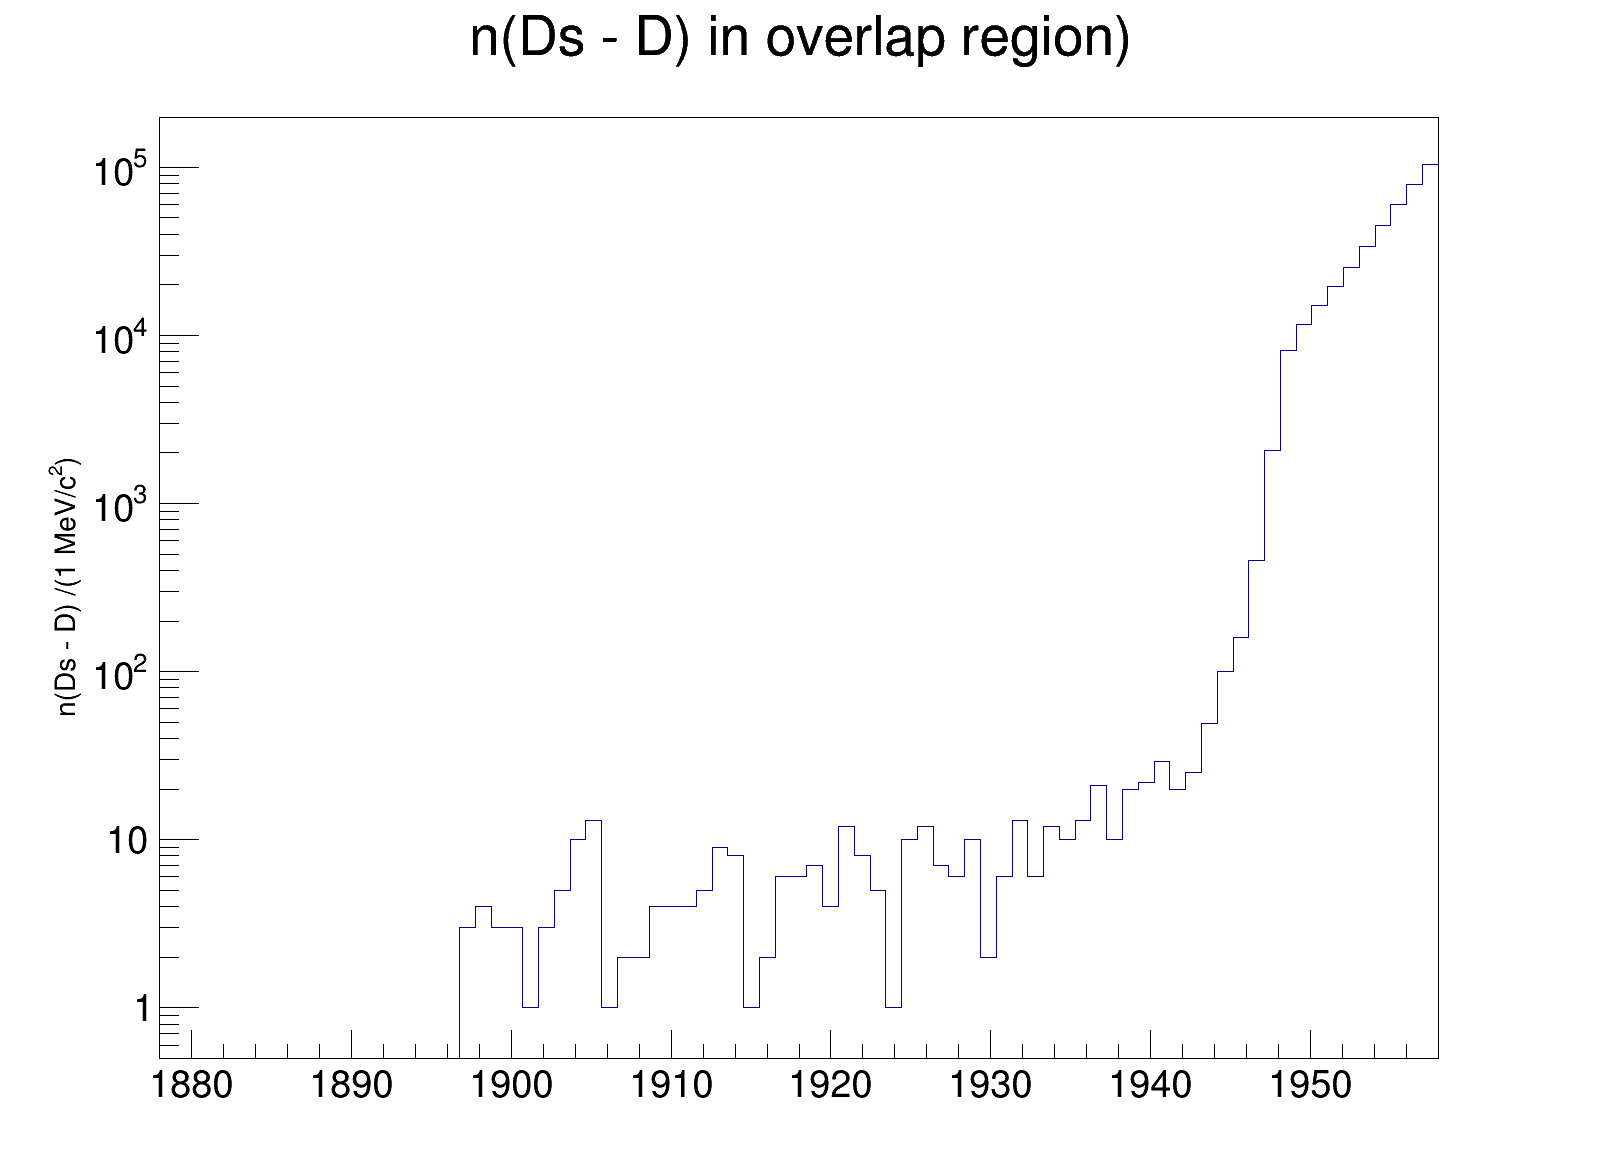
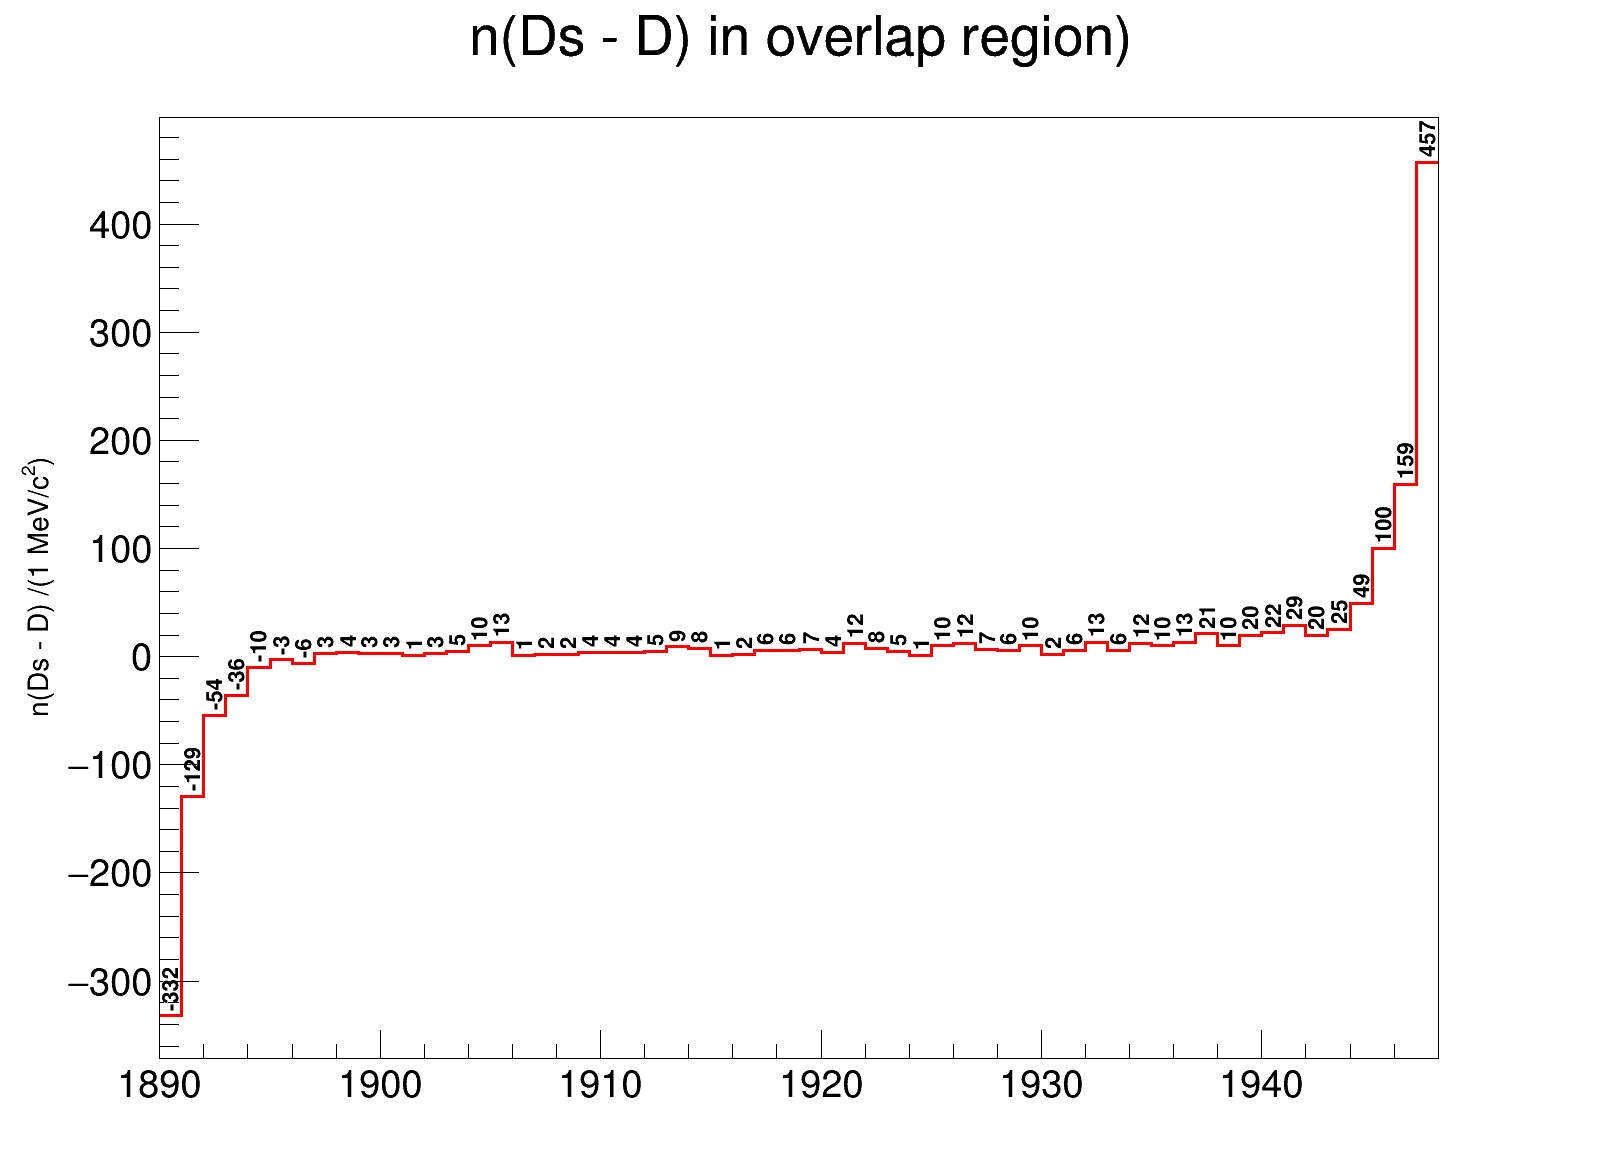
overlap region second look after removing extra run

diff --git a/extra_info_rdf.C b/extra_info_rdf.C
@@ -31,6 +31,7 @@ auto cut_pK_ambiguity = [] (double x) {return x> 10000 ;};
 auto cut_dira = [] (double x) {return x>0.99999 ;};
 auto cut_tau = [] (double x) {return x > 0.0000000001 ;};
 
+auto cut_run = [] (unsigned int x) {return x != 193695 ;};
 
 
 
@@ -84,15 +85,38 @@ auto dsp_cut = dspdf.Filter(cut_ipchi2, {"Dsplus_IPCHI2_OWNPV"})
 				   .Filter(cut_phi, {"mkpkm"});
 
 
+auto dp_runcut = dp_cut.Filter(cut_run, {"runNumber"});
+auto dsp_runcut = dsp_cut.Filter(cut_run, {"runNumber"});
+
+
+
+
+
 //get and print number of entries
 /*
-	auto dpdf_count = dp_cut.Count();
+	std::cout << std::dec << std::fixed << std::cout.precision(0);
+	
+	auto dpdf_count = dpdf.Count();
 	double dpdfEntries = *dpdf_count;
-	cout << "Dplus Entries: " << dpdfEntries << endl;
-	auto dspdf_count = dsp_cut.Count();
+	cout << "Dplus Raw Entries: " << dpdfEntries << endl;
+	auto dspdf_count = dspdf.Count();
 	double dspdfEntries = *dspdf_count;
-	cout << "Dsplus Entries: " << dspdfEntries << endl;
-*/	
+	cout << "Dsplus Raw Entries: " << dspdfEntries << endl;
+
+	auto dpdf_cut_count = dp_cut.Count();
+	double dpdf_cutEntries = *dpdf_cut_count;
+	cout << "Dplus Cut Entries: " << dpdf_cutEntries << endl;
+	auto dspdf_cut_count = dsp_cut.Count();
+	double dspdf_cutEntries = *dspdf_cut_count;
+	cout << "Dsplus Cut Entries: " << dspdf_cutEntries << endl;
+
+	auto dpdf_runcut_count = dp_runcut.Count();
+	double dpdf_runcutEntries = *dpdf_runcut_count;
+	cout << "Dplus Run Cut Entries: " << dpdf_runcutEntries << endl;
+	auto dspdf_runcut_count = dsp_runcut.Count();
+	double dspdf_runcutEntries = *dspdf_runcut_count;
+	cout << "Dsplus Run Cut Entries: " << dspdf_runcutEntries << endl;
+*/
 
 
 //get and print column names
@@ -146,16 +170,16 @@ auto dsp_cut = dspdf.Filter(cut_ipchi2, {"Dsplus_IPCHI2_OWNPV"})
 /*
 	auto dpmasshist = dp_cut.Fill<double>(TH1D("dpmasshist","d -> kkpi",nbins, binmin, binmax), {"Dplus_MM"});
 	auto dspmasshist = dsp_cut.Fill<double>(TH1D("dspmasshist","ds -> kkpi",nbins, binmin, binmax), {"Dsplus_MM"});
-	int xVals[nbins];
 	int dpVals[nbins];
 	int dspVals[nbins];
+	int diff;
 		std::cout << "Events per MeV:" << endl;
 		std::cout << "Bin\tD\tDs" << endl;
 	for (int i=1; i<nbins; i++) {
-		int x = dpmasshist->GetBinCenter(i);
+		int massbin = dpmasshist->GetBinCenter(i);
 		int dpm = dpmasshist->GetBinContent(i);
 		int dspm = dspmasshist->GetBinContent(i);
-		xVals[i] = x;
+		MeV[i] = massbin;
 		dpVals[i] = dpm;
 		dspVals[i] = dspm;
 		std::cout << x << '\t' << dpm << '\t' << dspm << endl;
@@ -206,6 +230,7 @@ auto dsp_cut = dspdf.Filter(cut_ipchi2, {"Dsplus_IPCHI2_OWNPV"})
 
 
 //looking at entries per run number to see why Ds seems to have more data than D+
+	//both cut and uncut, d+ and ds, had a range of (19228, 202897)
 /*
 auto dpMin = dp_cut.Min("runNumber");
 auto dpMax = dp_cut.Max("runNumber");
@@ -217,9 +242,9 @@ auto dspMax = dsp_cut.Max("runNumber");
 int dspMinRunN = *dspMin;
 int dspMaxRunN = *dspMax;
 cout << "Ds min run number: " << dspMinRunN << "\nDs max run number: " << dspMaxRunN << endl;
-*/     //both cut and uncut, d+ and ds, had a range of (19228, 202897)
-
-
+*/     
+	//getting the counts per run entry and printing. only one with 0 d+ is 0193695
+/*
 auto dpRunNumberHist = dpdf.Fill<unsigned int>(TH1D("dpRunNumberHist"," ", 11000, 192000, 203000), {"runNumber"});
 auto dspRunNumberHist = dspdf.Fill<unsigned int>(TH1D("dspRunNumberHist"," ", 11000, 192000, 203000), {"runNumber"});
 
@@ -250,11 +275,47 @@ for (int i=1; i<11000; i++) {
 	std::cout << runNi << "\t" << dpCounti << "\t" << dspCounti << "\t" << dpCountcuti << "\t" << dspCountcuti << endl;
 	}
 }
+*/
 
 
 
+//second look at overlap region after cutting excess run from ds
 
+	auto dpmasshist = dp_cut.Fill<double>(TH1D("dpmasshist","d -> kkpi",nbins, binmin, binmax), {"Dplus_MM"});
+	auto dspmasshist = dsp_cut.Fill<double>(TH1D("dspmasshist","ds -> kkpi",nbins, binmin, binmax), {"Dsplus_MM"});
+	auto diffhist = new TH1D("diffhist", "n(Ds - D) in overlap region)", nbins, binmin, binmax);
+		diffhist->SetStats(0);
+		diffhist->SetTitleFont(43);
+		diffhist->SetTitleSize(35);
+		diffhist->GetYaxis()->SetTitle("n(Ds - D) /(1 MeV/c^{2})");
+		//diffhist->SetMinimum(10);//for logy, but might not be a good idea since +/- values
+		diffhist->GetYaxis()->SetTitleFont(43);
+		diffhist->GetYaxis()->SetTitleSize(30);
+		diffhist->GetYaxis()->CenterTitle(true);
+		diffhist->SetLineWidth(3);
+		diffhist->SetLineColor(kRed);
+		diffhist->GetXaxis()->SetRangeUser(1890, 1948);
 
+	for (int i=0; i<nbins; i++) {
+		int massbin = dpmasshist->GetBinCenter(i);
+		int dpm = dpmasshist->GetBinContent(i);
+		int dspm = dspmasshist->GetBinContent(i);
+		int diff = dspm - dpm;
+		diffhist->SetBinContent(i, diff);
+	}
+
+	auto can = new TCanvas("can", "can", 1600, 1200);
+		can->cd();
+		//can->SetLeftMargin(0.15);
+		//can->SetRightMargin(0.09);
+		//can->SetBottomMargin(0.15);
+		TPad *pad1 = new TPad("pad1","pad1",0,0,1,1);
+		pad1->Draw();
+		pad1->cd();
+		//pad1->SetLogy();
+	diffhist->Draw();
+	diffhist->Draw("TEXT same");
+	can->SaveAs("image/overlap_difference.png");
 
 
 
